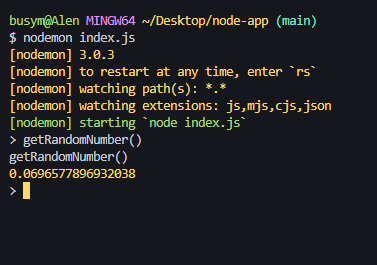
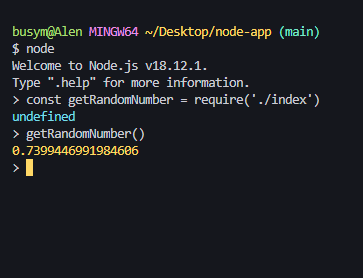
modified code a bit

Changed region(s): [[0.0, 0.0604, 0.8788, 0.7547], [0.7879, 0.2415, 0.8485, 0.3019]]

diff --git a/index.js b/index.js
@@ -1,7 +1,5 @@
-const repl = require('repl');
+const getRandomNumber = () => console.log(Math.random());
 
-const getRandomNumber = () => Math.random();
+getRandomNumber();
 
-const replServer = repl.start();
-
-replServer.context.getRandomNumber = getRandomNumber;
+module.exports = getRandomNumber;
